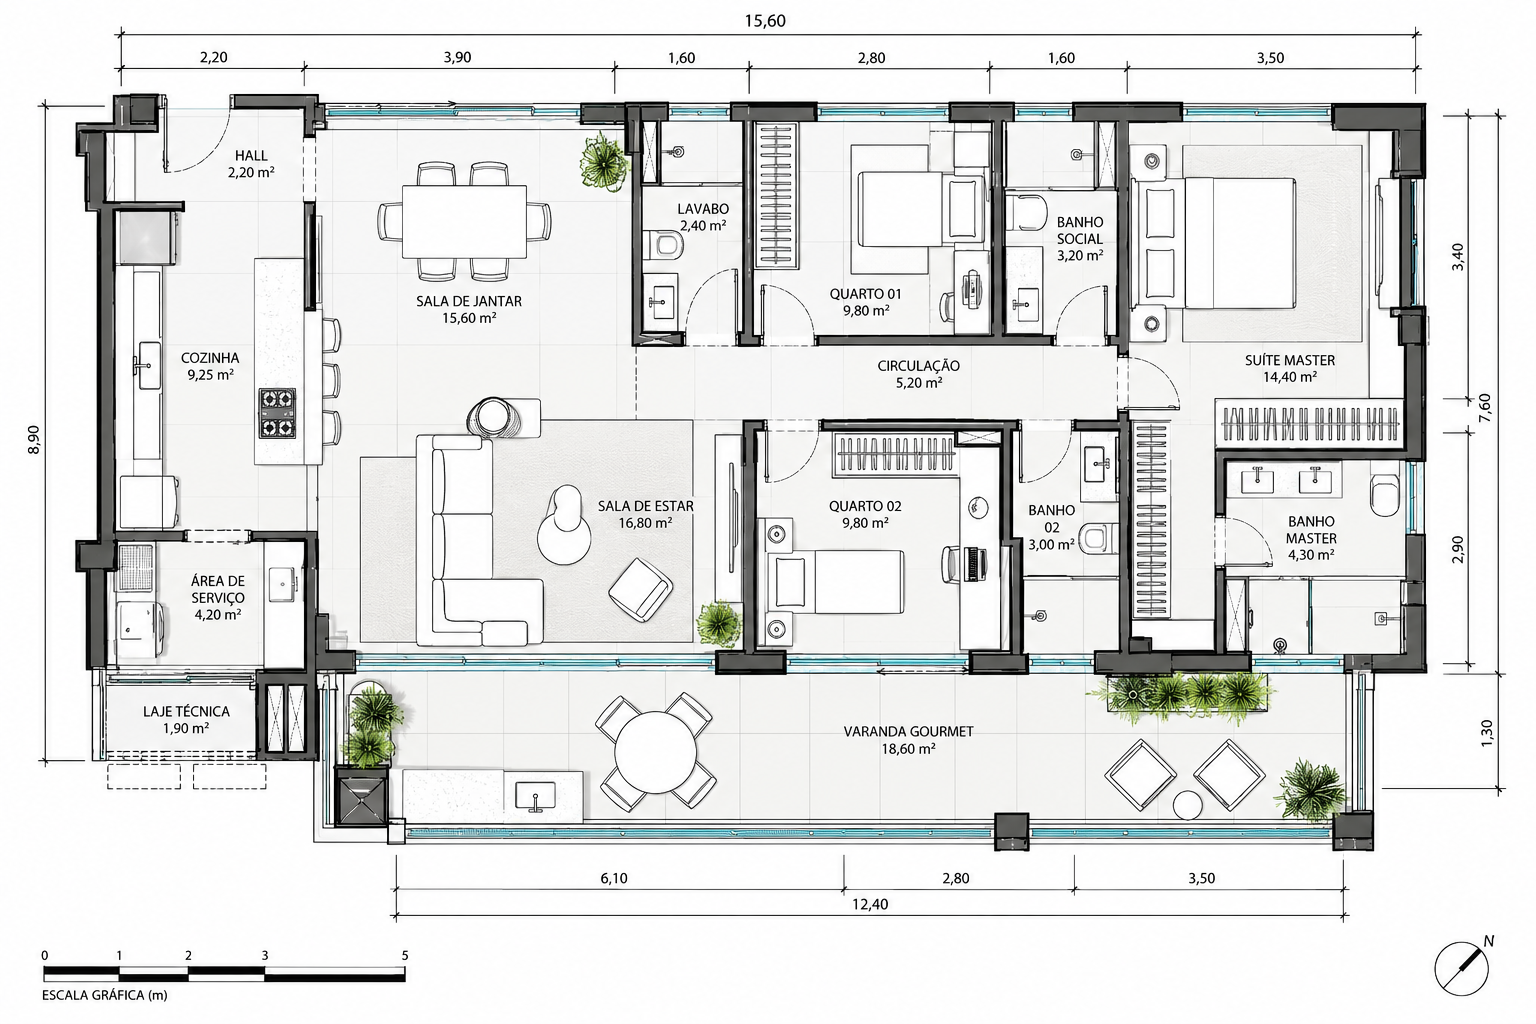
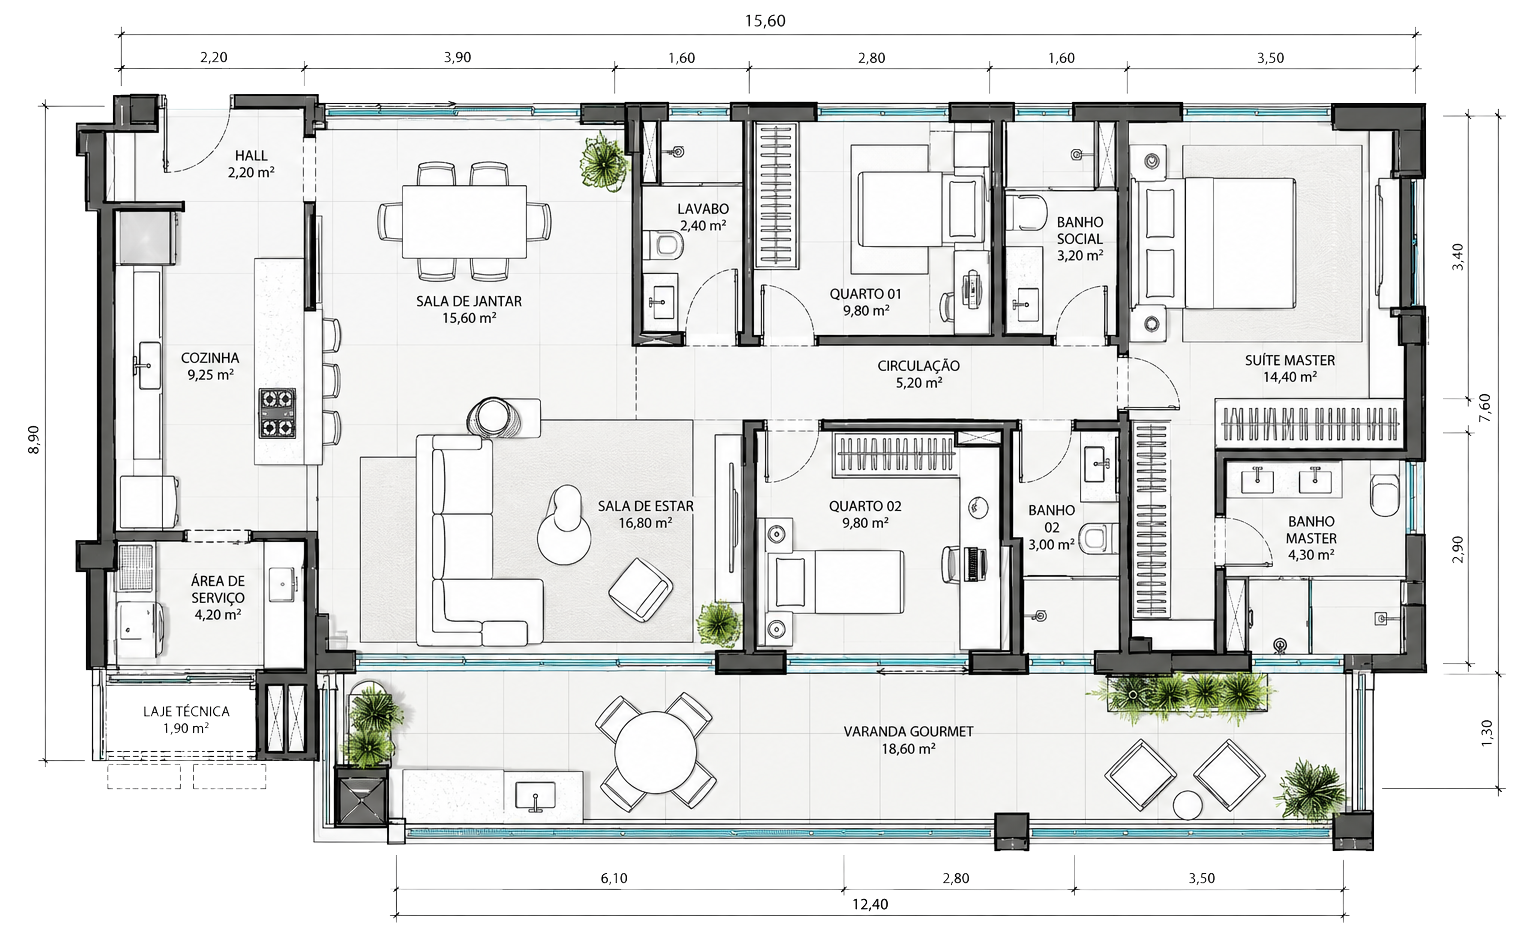
ALTERAÇÕES NAS IMAGENS

diff --git a/index.html b/index.html
@@ -7,6 +7,6 @@
 <a class="project-card reveal" href="oniode.html"><img src="assets/01-IMAGEM(1).png" alt="Hostel Oniodê"><div class="overlay"><h3>Hostel Oniodê</h3><p>Hospitalidade e natureza →</p></div></a></div></section>
 <section class="section services" id="servicos"><div class="section-head reveal"><div><p class="eyebrow">Serviços</p><h2>Soluções completas<br>em arquitetura</h2></div><p>Do estudo inicial ao acompanhamento da obra, atuamos de forma integrada para transformar ideias em espaços reais, com qualidade técnica e estética.</p></div><div class="service-grid"><div class="service reveal"><svg viewBox="0 0 48 48"><path d="M7 40V19L24 7l17 12v21M16 40V25h16v15M11 19h26"/></svg><h3>Arquitetura</h3><p>Projetos residenciais, comerciais e institucionais.</p></div><div class="service reveal"><svg viewBox="0 0 48 48"><path d="M10 28h28v10H10zM14 28V16h20v12M13 38v4M35 38v4"/></svg><h3>Interiores</h3><p>Espaços funcionais e personalizados.</p></div><div class="service reveal"><svg viewBox="0 0 48 48"><path d="M9 35l20-20 6 6-20 20H9zM27 17l4-4 6 6-4 4M8 10h13M8 15h9"/></svg><h3>Reformas</h3><p>Planejamento e compatibilização.</p></div><div class="service reveal"><svg viewBox="0 0 48 48"><path d="M7 11h34v23H22l-8 7v-7H7zM14 20h20M14 26h14"/></svg><h3>Consultoria</h3><p>Análise técnica e soluções sob medida.</p></div><div class="service reveal"><svg viewBox="0 0 48 48"><path d="M8 27h32v13H8zM13 27v-6a11 11 0 0 1 22 0v6M24 10v11M6 27h36"/></svg><h3>Acompanhamento de obras</h3><p>Gestão e apoio técnico em todas as etapas.</p></div><div class="service reveal"><svg viewBox="0 0 48 48"><circle cx="21" cy="21" r="12"/><path d="M30 30l11 11M15 21h12M21 15v12"/></svg><h3>Perícia</h3><p>Vistorias, análises e pareceres técnicos.</p></div><div class="service reveal"><svg viewBox="0 0 48 48"><path d="M12 6h18l7 7v29H12zM30 6v8h7M18 22h13M18 28h13M18 34h9"/></svg><h3>Laudos técnicos</h3><p>Laudos para regularização, compra e venda, patologias e demais finalidades.</p></div></div></section>
 <section class="split" id="escritorio"><img src="assets/2b-2-GPT.png" alt="Interior residencial RSato"><div class="split-copy reveal"><p class="eyebrow">Escritório</p><h2>Arquitetura<br>com propósito</h2><p>A RSato Arquitetura desenvolve projetos que conciliam estética, funcionalidade e viabilidade, com atenção às pessoas e ao contexto em que estão inseridos.</p><a class="text-link" href="#contato">Fale com o escritório →</a></div></section>
-<section class="section courses" id="cursos"><div class="course-copy reveal"><p class="eyebrow">Cursos</p><h2>Formação em<br>ferramentas profissionais</h2><p>Cursos presenciais de Revit e AutoCAD, com foco em aplicação prática, representação técnica e desenvolvimento de projetos.</p></div><div class="course-card reveal"><img src="assets/bim2.png" alt="Protótipo de modelagem BIM para o curso Revit"><div><h3>Revit</h3><p>Modelagem e representação</p></div></div><div class="course-card reveal"><img src="assets/cad1.png" alt="Planta baixa como protótipo para o curso AutoCAD"><div><h3>AutoCAD</h3><p>Desenho técnico e projetos</p></div></div></section>
+<section class="section courses" id="cursos"><div class="course-copy reveal"><p class="eyebrow">Cursos</p><h2>Formação em<br>ferramentas profissionais</h2><p>Cursos presenciais de Revit e AutoCAD, com foco em aplicação prática, representação técnica e desenvolvimento de projetos.</p></div><div class="course-card reveal"><img src="assets/bim2.png" alt="Protótipo de modelagem BIM para o curso Revit"><div><h3>Revit</h3><p>Modelagem e representação</p></div></div><div class="course-card reveal"><img src="assets/CAD-1.png" alt="Planta baixa como protótipo para o curso AutoCAD"><div><h3>AutoCAD</h3><p>Desenho técnico e projetos</p></div></div></section>
 <section class="contact" id="contato"><div class="shade"></div><div class="contact-copy reveal"><p class="eyebrow">Contato</p><h2>Vamos conversar<br>sobre o seu projeto?</h2><p>Entre em contato para orçamentos, consultorias, perícias, laudos ou informações sobre os cursos.</p><a class="btn" href="https://wa.me/5561991151745" target="_blank" rel="noopener">WhatsApp <span>→</span></a></div><div class="contact-info reveal"><p><strong>WhatsApp</strong><br><a href="https://wa.me/5561991151745" target="_blank" rel="noopener">(61) 99115-1745</a></p><p><strong>E-mail</strong><br><a href="mailto:rsatoarquitetura@gmail.com">rsatoarquitetura@gmail.com</a></p><p><strong>Atendimento</strong><br>Brasília – DF</p></div></section></main>
 <footer><img src="assets/logo.png" alt="RSato"><p>© 2026 RSato Arquitetura e Urbanismo</p><p>Arquitetura · Interiores · Urbanismo · Perícia · Laudos Técnicos</p></footer><script src="script.js"></script></body></html>
